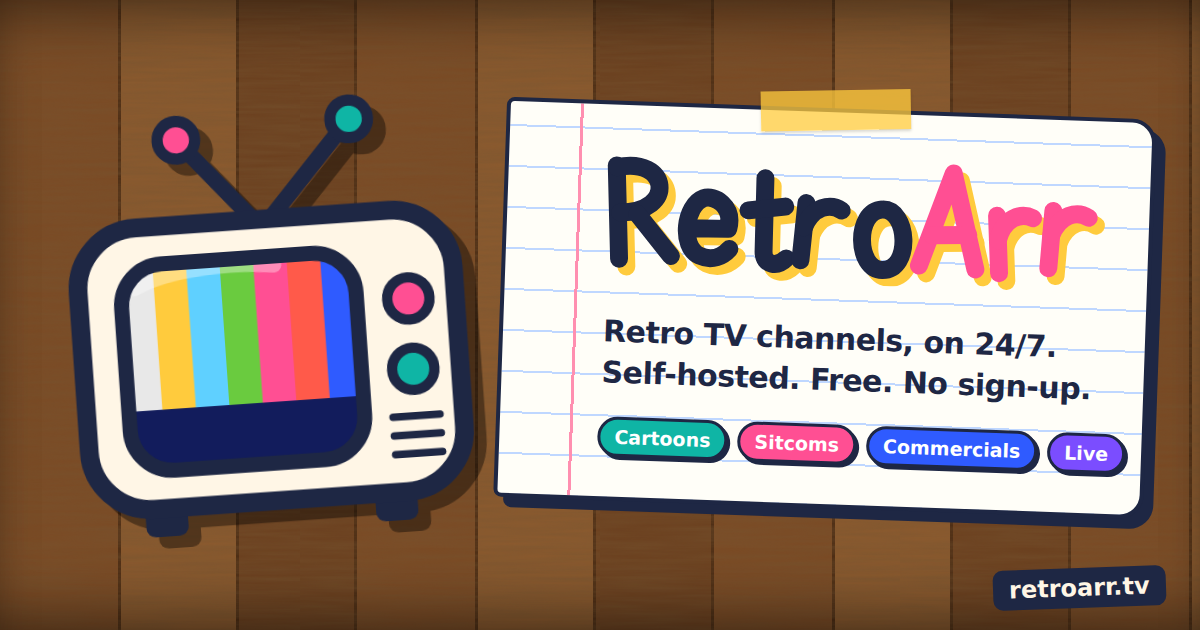
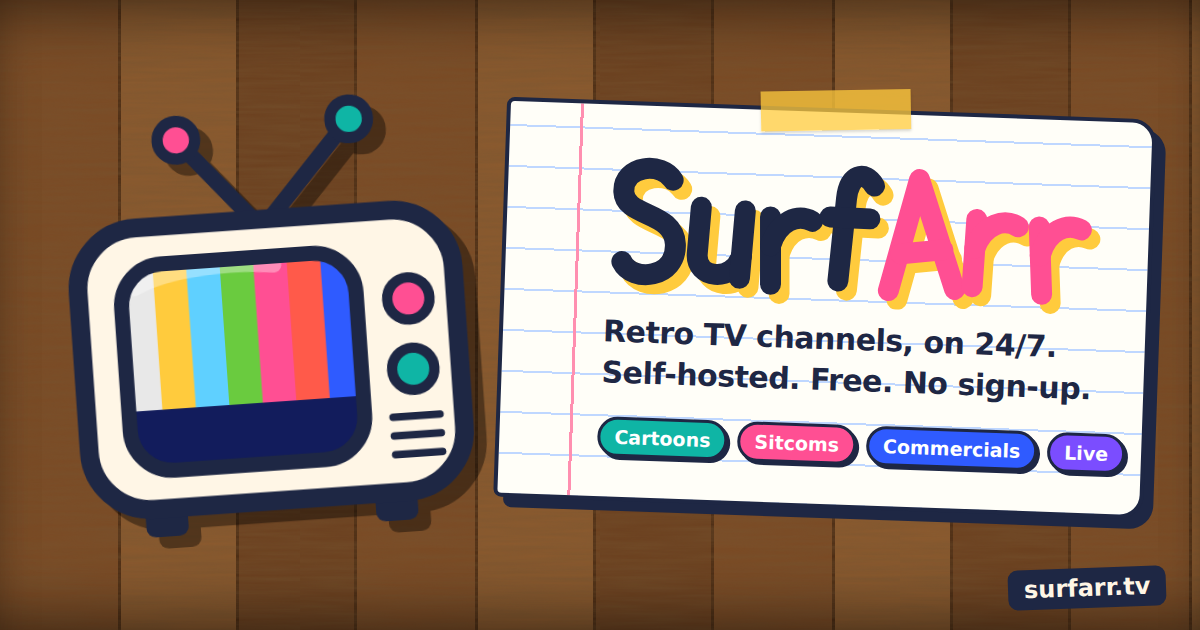
Rename RetroArr to SurfArr
New name and logo. Existing installs keep working: the retroarr-db volume,
tuner ID and API URL are unchanged, and the Docker image publishes as
f00d4tehg0dz/surfarr while still updating retroarr:latest. README has an
upgrade note.

Changed region(s): [[0.4933, 0.2413, 0.925, 0.5127], [0.8017, 0.9048, 0.9558, 0.9651]]

diff --git a/client/src/pages/Dashboard.jsx b/client/src/pages/Dashboard.jsx
@@ -93,7 +93,7 @@ export default function Dashboard() {
   if (isLoading) return <div className="grid h-64 place-items-center"><LoadingSpinner size="lg" text="Warming up the tubes…" /></div>;
   if (error) return (
     <div className="panel border-m3-error/40 p-5 text-sm">
-      <span className="font-semibold text-m3-error">Can't reach the RetroArr server. </span>
+      <span className="font-semibold text-m3-error">Can't reach the SurfArr server. </span>
       <span className="text-m3-textSecondary">{error.message}</span>
     </div>
   );
@@ -127,7 +127,7 @@ export default function Dashboard() {
 
         <aside className="panel flex flex-col gap-5 p-5">
           <div>
-            <div className="eyebrow">Tonight on RetroArr</div>
+            <div className="eyebrow">Tonight on SurfArr</div>
             <div className="mt-3 grid grid-cols-3 gap-3">
               {[
                 ['On air', onAir],
@@ -143,7 +143,7 @@ export default function Dashboard() {
           </div>
           <div>
             <div className="eyebrow">Hook up your TV app</div>
-            <p className="mt-1.5 text-xs text-m3-muted">Plex, Jellyfin & Emby find RetroArr as an HDHomeRun tuner. Or paste these into any IPTV player.</p>
+            <p className="mt-1.5 text-xs text-m3-muted">Plex, Jellyfin & Emby find SurfArr as an HDHomeRun tuner. Or paste these into any IPTV player.</p>
             <div className="mt-3 space-y-2">
               <CopyField label="Tuner" value={origin} />
               <CopyField label="M3U" value={`${origin}/playlist.m3u`} />

diff --git a/server/src/hdhr/ssdp.js b/server/src/hdhr/ssdp.js
@@ -6,9 +6,9 @@
 // the device's presence to Plex, Jellyfin, and Emby on the local network.
 //
 // Discovery handshake:
-//   1. RetroArr broadcasts NOTIFY to 239.255.255.250:1900 every 30s
+//   1. SurfArr broadcasts NOTIFY to 239.255.255.250:1900 every 30s
 //   2. Plex/Jellyfin sends M-SEARCH to 239.255.255.250:1900
-//   3. RetroArr responds with unicast HTTP 200 OK to the requester
+//   3. SurfArr responds with unicast HTTP 200 OK to the requester
 //   4. Plex fetches /discover.json then /lineup.json over HTTP
 
 const dgram = require('dgram');
@@ -25,7 +25,7 @@ function buildNotifyAlive(hostIp, port, deviceId) {
     `LOCATION: http://${hostIp}:${port}/discover.json`,
     'NT: urn:schemas-upnp-org:device:MediaServer:1',
     'NTS: ssdp:alive',
-    'SERVER: RetroArr/1.0 UPnP/1.0',
+    'SERVER: SurfArr/1.0 UPnP/1.0',
     `USN: uuid:${deviceId}::urn:schemas-upnp-org:device:MediaServer:1`,
     '',
     '',
@@ -38,7 +38,7 @@ function buildSearchResponse(hostIp, port, deviceId) {
     'CACHE-CONTROL: max-age=1800',
     `LOCATION: http://${hostIp}:${port}/discover.json`,
     'EXT:',
-    'SERVER: RetroArr/1.0 UPnP/1.0',
+    'SERVER: SurfArr/1.0 UPnP/1.0',
     `USN: uuid:${deviceId}::urn:schemas-upnp-org:device:MediaServer:1`,
     'ST: urn:schemas-upnp-org:device:MediaServer:1',
     '',

diff --git a/client/src/pages/Settings.jsx b/client/src/pages/Settings.jsx
@@ -15,7 +15,7 @@ function AccessPanel() {
       <p className="text-sm text-m3-muted">
         {tokenMode
           ? 'This server requires an admin key for changes (ADMIN_TOKEN). Enter it once per browser.'
-          : 'Changes are allowed from your local network. Set ADMIN_TOKEN on the server to manage RetroArr from anywhere with a key.'}
+          : 'Changes are allowed from your local network. Set ADMIN_TOKEN on the server to manage SurfArr from anywhere with a key.'}
       </p>
       <div className="flex gap-2">
         <input className="input" type="password" autoComplete="off" placeholder="Admin key" value={key}
@@ -35,7 +35,7 @@ export default function Settings() {
 
   const [form, setForm] = useState({
     remoteApiUrl: '',
-    deviceName: 'RetroArr',
+    deviceName: 'SurfArr',
     streamQuality: '720p',
     tunerCount: 4,
   });
@@ -44,7 +44,7 @@ export default function Settings() {
     if (settings) {
       setForm({
         remoteApiUrl: settings.remoteApiUrl || '',
-        deviceName: settings.deviceName || 'RetroArr',
+        deviceName: settings.deviceName || 'SurfArr',
         streamQuality: settings.streamQuality || '720p',
         tunerCount: settings.tunerCount || 4,
       });

diff --git a/server/src/middleware/requireAdmin.js b/server/src/middleware/requireAdmin.js
@@ -17,7 +17,7 @@
 //                      caller would otherwise look like 127.0.0.1.
 //
 // PLUGIN_ADMIN_KEY is accepted as an alias of ADMIN_TOKEN.
-// Based on the report in f00d4tehg0dz/retroarr PR #1 (CWE-862).
+// Based on the report in f00d4tehg0dz/surfarr PR #1 (CWE-862).
 
 const crypto = require('crypto');
 
@@ -59,13 +59,13 @@ function requireAdmin(req, res, next) {
   }
   if (looksProxied(req) && !TRUST_PROXY) {
     return res.status(403).json({
-      error: 'This request came through a reverse proxy. Set ADMIN_TOKEN (recommended) or TRUST_PROXY so RetroArr can tell who is asking.',
+      error: 'This request came through a reverse proxy. Set ADMIN_TOKEN (recommended) or TRUST_PROXY so SurfArr can tell who is asking.',
       code: 'PROXY_UNTRUSTED',
     });
   }
   if (isLocalAddress(req.ip)) return next();
   return res.status(403).json({
-    error: 'Changes are only allowed from your local network. Set ADMIN_TOKEN to manage RetroArr remotely.',
+    error: 'Changes are only allowed from your local network. Set ADMIN_TOKEN to manage SurfArr remotely.',
     code: 'NOT_LOCAL',
   });
 }

diff --git a/server/src/config.js b/server/src/config.js
@@ -75,6 +75,8 @@ function legacyDeviceId() {
 // Fresh-install ID: MAC-seeded (stable across restarts) with a valid checksum.
 function freshDeviceId() {
   const mac = firstMac() || os.hostname();
+  // Keep the old 'retroarr:' seed so the tuner ID doesn't change after the SurfArr rename
+  // (a new ID makes Plex/Jellyfin treat it as a brand-new tuner and drop channel mappings).
   const hash = crypto.createHash('md5').update(`retroarr:${mac}`).digest();
   // Keep the top nibble at 1 like real Silicondust IDs (1xxxxxxx)
   const seed = ((hash.readUInt32BE(0) & 0x0fffffff) | 0x10000000) >>> 0;
@@ -142,7 +144,7 @@ const config = {
 
   // Seed only — lowdb.js replaces this with the persisted value at boot.
   deviceId: process.env.DEVICE_ID ? process.env.DEVICE_ID.toUpperCase() : freshDeviceId(),
-  deviceName: process.env.DEVICE_NAME || 'RetroArr',
+  deviceName: process.env.DEVICE_NAME || 'SurfArr',
   streamQuality: process.env.STREAM_QUALITY || '720p',
   tunerCount: envInt('TUNER_COUNT', 4),
 

diff --git a/server/src/routes/m3uRoute.js b/server/src/routes/m3uRoute.js
@@ -24,14 +24,14 @@ router.get(['/playlist.m3u', '/lineup.m3u'], (req, res) => {
   let m3u = '#EXTM3U x-tvg-url="http://' + hostIp + ':' + config.port + '/epg.xml"\n\n';
 
   for (const ch of enabledChannels) {
-    const group = ch.isLive ? 'Live' : ch.isPlugin ? 'Plugins' : ch.isStandalone ? 'Curated' : ch.decade || 'RetroArr';
+    const group = ch.isLive ? 'Live' : ch.isPlugin ? 'Plugins' : ch.isStandalone ? 'Curated' : ch.decade || 'SurfArr';
     const name = String(ch.name).replace(/"/g, "'");
     m3u += `#EXTINF:-1 tvg-id="ch${ch.channelNumber}" tvg-name="${name}" tvg-chno="${ch.channelNumber}" group-title="${group}",${ch.name}\n`;
     m3u += `http://${hostIp}:${config.port}/stream/${ch.id}\n\n`;
   }
 
   res.setHeader('Content-Type', 'audio/x-mpegurl');
-  res.setHeader('Content-Disposition', 'attachment; filename="retroarr.m3u"');
+  res.setHeader('Content-Disposition', 'attachment; filename="surfarr.m3u"');
   res.send(m3u);
 });
 

diff --git a/server/src/index.js b/server/src/index.js
@@ -1,6 +1,6 @@
 'use strict';
 
-// RetroArr Server — Boot sequence:
+// SurfArr Server — Boot sequence:
 //   1. Load config + .env, resolve external binaries (yt-dlp / ffmpeg)
 //   2. Initialize LowDB (create/seed db.json if absent)
 //   3. Start discovery responders (HDHomeRun UDP 65001 + SSDP 1900)
@@ -69,7 +69,7 @@ function logBinaries() {
 }
 
 async function main() {
-  console.log(`🎬 RetroArr ${pkg.version} starting on ${process.platform}/${process.arch} (node ${process.version})...`);
+  console.log(`🎬 SurfArr ${pkg.version} starting on ${process.platform}/${process.arch} (node ${process.version})...`);
 
   // --- Step 1: Binaries ---
   logBinaries();
@@ -199,7 +199,7 @@ async function main() {
   process.on('SIGTERM', () => shutdown('SIGTERM'));
   process.on('SIGINT', () => shutdown('SIGINT'));
 
-  console.log('✅ RetroArr ready.\n');
+  console.log('✅ SurfArr ready.\n');
 }
 
 main().catch((err) => {

diff --git a/client/src/components/tv/CrtTv.jsx b/client/src/components/tv/CrtTv.jsx
@@ -79,7 +79,7 @@ export default function CrtTv({ videoId, seekSeconds, channelName, channelNumber
                   videoId={lockedSrc.id}
                   seekSeconds={lockedSrc.seek}
                   controls={false}
-                  title={channelName || 'RetroArr TV'}
+                  title={channelName || 'SurfArr TV'}
                   className="absolute inset-0 w-full h-full"
                 />
               )}
@@ -152,7 +152,7 @@ export default function CrtTv({ videoId, seekSeconds, channelName, channelNumber
               />
               <div className="font-medium tracking-wide"
                 style={{ color: '#444', fontSize: 'clamp(0.5rem, 0.8vw, 0.75rem)' }}>
-                RETROARR · COLOR TV
+                SURFARR · COLOR TV
               </div>
             </div>
             {channelNumber && (

diff --git a/server/src/api/remoteClient.js b/server/src/api/remoteClient.js
@@ -1,7 +1,7 @@
 'use strict';
 
 // Read-only HTTP client for the user's VPS MongoDB API.
-// RetroArr NEVER writes to the remote API — it only reads video metadata.
+// SurfArr NEVER writes to the remote API — it only reads video metadata.
 // The remote API is expected to return arrays of video objects per decade+category.
 
 const axios = require('axios');
@@ -83,7 +83,7 @@ async function fetchPluginVideos(pluginId) {
 
 // Fetch the shared channel definition (grid + standalone + plugin + live
 // channels) from the API. This is the source of truth that keeps every
-// RetroArr instance's lineup in step with the API; the local grid in
+// SurfArr instance's lineup in step with the API; the local grid in
 // channelGrid.js is only the offline fallback.
 async function fetchConfig() {
   if (!config.remoteApiUrl) return null;

diff --git a/client/src/components/player/SourcePlayer.jsx b/client/src/components/player/SourcePlayer.jsx
@@ -4,7 +4,7 @@ import { isArchiveId, archiveFileUrl, youtubeEmbedUrl } from '../shared/media';
 // Plays one video from whichever source it lives on: a YouTube embed, or a
 // plain <video> for Internet Archive MP4 files. Starts at `seekSeconds` so
 // the virtual clock stays in sync; rebuild it (change `key`) to re-tune.
-export default function SourcePlayer({ videoId, seekSeconds = 0, controls = true, title = 'RetroArr', className = 'absolute inset-0 h-full w-full' }) {
+export default function SourcePlayer({ videoId, seekSeconds = 0, controls = true, title = 'SurfArr', className = 'absolute inset-0 h-full w-full' }) {
   const ref = useRef(null);
   const archive = isArchiveId(videoId);
 

diff --git a/client/src/components/layout/Sidebar.jsx b/client/src/components/layout/Sidebar.jsx
@@ -30,7 +30,7 @@ export default function Sidebar() {
             <img src={logo} alt="" className="w-9 h-9 rounded-xl ring-1 ring-m3-border" />
             <div>
               <div className="font-display text-xl font-extrabold tracking-tight leading-none">
-                Retro<span className="text-m3-primary">Arr</span>
+                Surf<span className="text-m3-primary">Arr</span>
               </div>
               <div className="font-mono text-[10px] uppercase tracking-[0.2em] text-m3-muted mt-1">Linear TV</div>
             </div>

diff --git a/client/src/index.css b/client/src/index.css
@@ -3,7 +3,7 @@
 @tailwind utilities;
 
 /* ─────────────────────────────────────────────────────────────────────────
-   RetroArr — "Late Night Broadcast"
+   SurfArr — "Late Night Broadcast"
    Modern product UI with a wink at the TV Guide / cable-box era:
    warm ink surfaces, marigold listings type, phosphor accents, a whisper of
    scanline + grain. Retro-ish, never costume.
